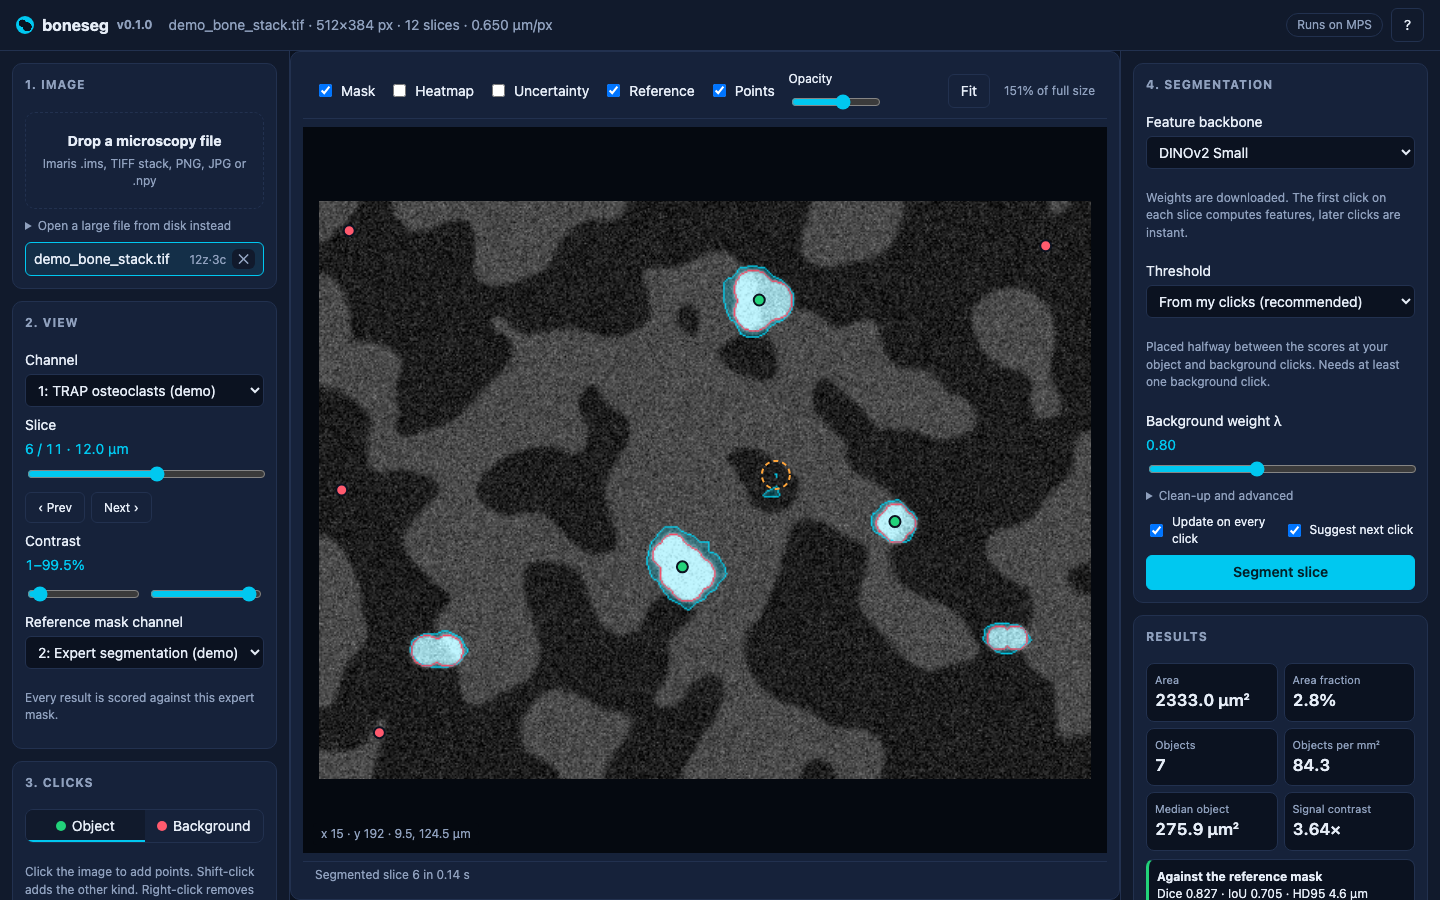
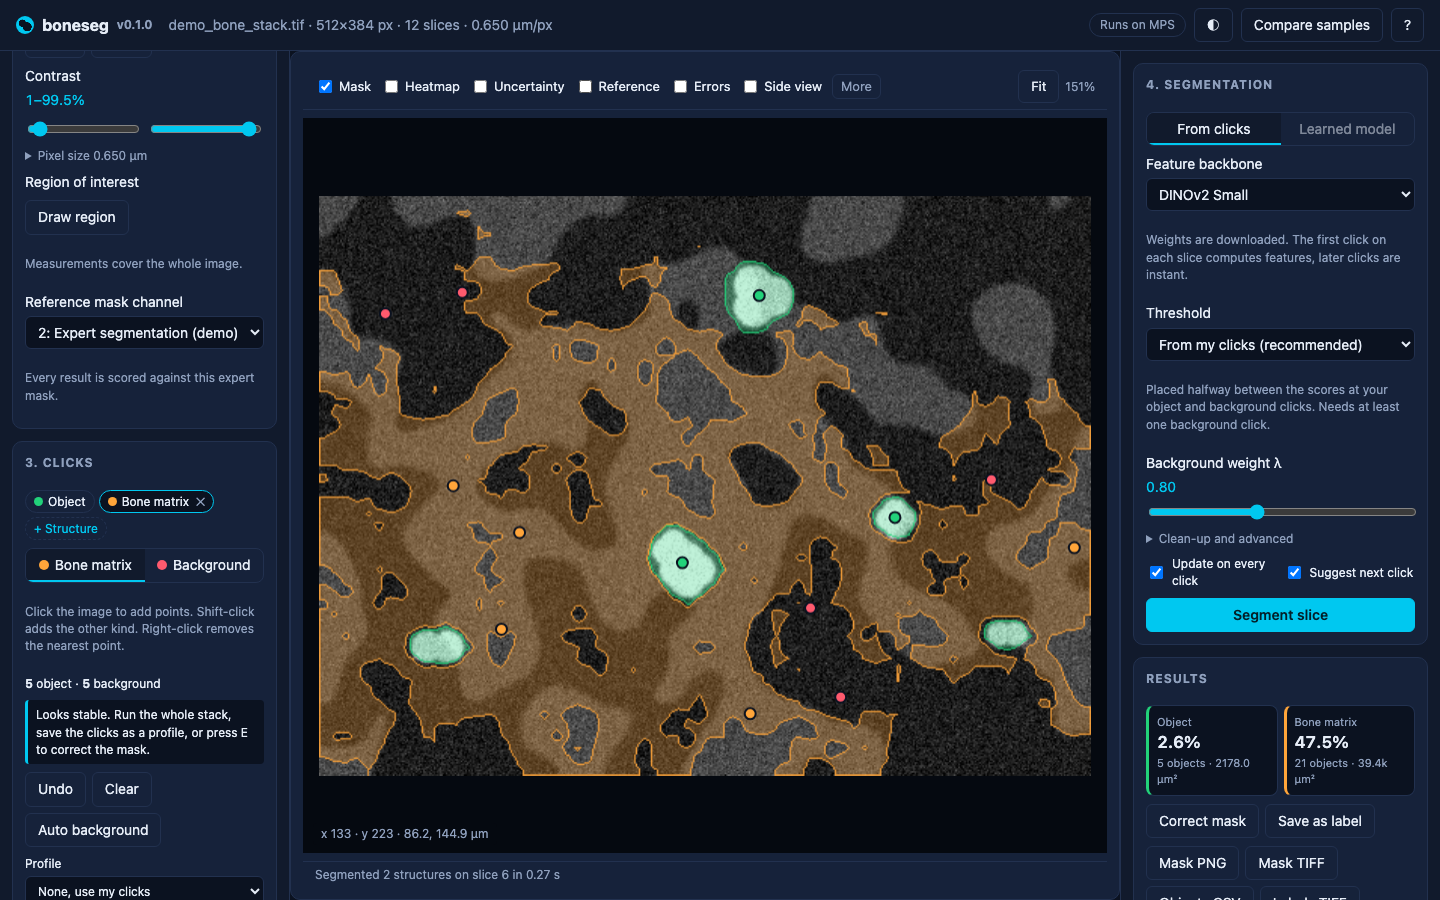
Reorganize the README around what a new user needs
A short feature overview, quick start, an eight-step walkthrough, batch
processing, the method with its benchmark tables, a 'tried and left out'
list of measured negative results, Python use, an up-to-date project
layout and development notes. The screenshot now shows two structures.

diff --git a/README.md b/README.md
@@ -1,8 +1,21 @@
 # boneseg
 
-Segment structures in bone microscopy images with a few clicks. boneseg turns the DINO few-shot segmentation from the notebook in `notebooks/` into a web app. You upload an Imaris, TIFF or PNG file, click a few cells and a few background spots, and get a mask with measurements in micrometres. You can then run the whole z-stack, export the results, or save the clicks as a profile for the next image.
+Segment structures in bone microscopy images with a few clicks. boneseg turns the DINO few-shot segmentation from the notebook in `notebooks/` into a web app. You open an Imaris, TIFF or PNG file, click a few cells and a few background spots, and get a mask with measurements in micrometres. From there you can run the whole z-stack, correct masks and train a small model on them, measure bone histomorphometry, and compare samples between groups.
 
-![The boneseg interface segmenting the demo stack](docs/screenshot.png)
+![boneseg segmenting osteoclast-like cells and bone matrix as two structures on the demo stack](docs/screenshot.png)
+
+## What it does
+
+- **Segment from clicks.** A frozen DINOv2 backbone turns the image into patch features. Your clicks become prototypes, and the threshold is calibrated from them. The mask updates after every click.
+- **Guide the next click.** An uncertainty overlay shows where the mask depends on single clicks, and a ring marks the most useful next click.
+- **Several structures at once.** Segment, for example, cells and bone matrix together, each with its own clicks and colour.
+- **Whole stacks.** Run every slice from one annotated slice, with measurements per slice, objects counted in 3D, and a side view through the stack.
+- **Learn from corrections.** Fix a mask with a brush, save it as a label, and train a small model in seconds. It reports its accuracy on slices it has not seen.
+- **Bone histomorphometry.** B.Ar/T.Ar, B.Pm, Oc.Pm/B.Pm and N.Oc/B.Pm per slice or across a stack, following the ASBMR nomenclature.
+- **Compare samples.** Run a profile on every sample, put samples in groups, and compare them with a dot plot and a rank test.
+- **Check against experts.** Pick an expert mask channel to score every result with Dice, IoU and HD95, and see where the mask is wrong.
+- **Reuse and share.** Profiles carry clicks, learned models or several structures to new images, to other users and to batch runs.
+- **Keep a record.** Export masks, label images and CSV tables, write an HTML report with a draft methods paragraph, or zip the whole project.
 
 ## Quick start
 
@@ -17,6 +30,8 @@ The app opens at http://127.0.0.1:8000. Click **Try a synthetic demo image** to 
 
 The app runs on an NVIDIA GPU, an Apple Silicon GPU or the CPU, whichever it finds. Small and Base are comfortable on a laptop. Giant needs a large GPU.
 
+To share the app on a lab network, start it with `--host 0.0.0.0`. Opening files by path on the server is then turned off unless you add `--allow-paths`, since it would let anyone read files the server can read.
+
 ### With Docker
 
 ```bash
@@ -28,20 +43,14 @@ The image runs on the CPU. For an NVIDIA GPU, change the PyTorch wheel index in 
 
 ## How to use it
 
-1. **Load an image.** Drop a file on the left panel. For multi-gigabyte Imaris files, use "Open a large file from disk instead" and paste the path, which opens the file in place without copying it.
-2. **Pick the channel** that shows the structure. Optionally draw a region of interest, for example trabecular bone without the cortex. Masks, measurements, scores and exports then stay inside it. If the file has an expert segmentation channel, choose it as the reference mask. Every result is then scored with Dice, IoU and HD95 against it. Channels named "segmentation", "mask" or "surface" are picked up automatically.
-3. **Click.** Click a few examples of the structure, then shift-click a few background spots. The mask updates after every click.
-   To segment several structures at once, for example cells and bone matrix, click "+ Structure" and give each structure its own clicks. Background clicks are shared, each pixel goes to the structure it resembles most, and "Labels TIFF" exports one value per structure. Whole-stack runs then cover every structure, with a label stack and 3D volumes and object counts per structure. When one structure is named like bone or matrix, the run also computes histomorphometry on every slice against the first other structure, and the stack-level Oc.Pm/B.Pm, N.Oc/B.Pm and B.Ar/T.Ar can be compared between groups in "Compare samples". "Save as profile" with several structures stores them all, so the same setup segments other images, stacks and batch runs without clicks.
-4. **Refine.** The orange overlay shows where the mask depends on single clicks, and a dashed ring suggests the most useful next click.
-5. **Correct and teach.** Press E to fix the mask with a brush, then save it as a label. After one or more labels, "Train model" fits a small classifier on the backbone features in a few seconds and reports its leave-one-slice-out Dice. Switch the method to "Learned model" to segment new slices without clicks. "Save model as profile" makes it reusable on other images and in batch runs.
-6. **Measure bone.** "Bone histomorphometry" combines a bone mask and an osteoclast mask on the slice. It reports B.Ar/T.Ar, B.Pm, Oc.Pm/B.Pm, N.Oc/B.Pm and each cell's distance to bone, following the ASBMR nomenclature for 2D sections. Either mask can come from the current result, a profile, the learned model, a saved label or the reference channel.
-7. **Export or scale up.**
-   - Download the mask as PNG or TIFF, or the per-object measurements as CSV. The CSV includes each object's mean and integrated raw intensity in every channel, for example SOST inside cells segmented on the TRAP channel.
-   - Run the whole stack, which writes a mask stack, a 3D label image with one ID per object, per-slice measurements and a 3D object table. Turn on "Side view" to see a cut through all slices with the stack mask on top, which shows at a glance whether the segmentation stays consistent with depth.
-   - Save the clicks as a profile to segment the next image of the same stain without clicking.
-   - Click "Compare samples" at the top, optionally run a saved profile on every sample from there, then put samples into groups and compare their latest stack runs, with a dot plot and a Mann-Whitney U or Kruskal-Wallis test. The app says when the groups are too small for the test to show anything.
-   - "Project zip" bundles everything done on the image except the image itself: settings, clicks, labels, learned models, profiles and stack results, with a README.
-   - Open the report, a self-contained HTML page with the image, measurements, settings, the latest stack run and a draft methods paragraph.
+1. **Open an image.** Drop a file on the left panel. Multi-gigabyte Imaris files open in place with "Open a large file from disk instead". Set the pixel size under "Pixel size" if the file has none.
+2. **Set up the view.** Pick the channel that shows the structure. Optionally draw a region of interest (R), for example trabecular bone without the cortex. If the file has an expert segmentation channel, pick it as the reference mask; channels named "segmentation", "mask" or "surface" are picked up automatically.
+3. **Click.** Click a few examples of the structure, then shift-click a few background spots. For several structures, click "+ Structure" and give each its own clicks; background clicks are shared.
+4. **Refine.** Follow the hint under the click counts. Orange areas depend on single clicks, and the dashed ring marks where one more click helps most. With a reference mask, "Errors" shows extra pixels in red and missed ones in yellow.
+5. **Correct and teach.** Press E to fix the mask with a brush and save it as a label. After one or more labels, "Train model" fits a small classifier in seconds and reports its Dice on held-out slices. Switch to "Learned model" to segment new slices without clicks.
+6. **Measure bone.** "Bone histomorphometry" combines a bone mask and a cell mask. Each mask can come from the current result, a structure, a profile, the learned model, a saved label or the reference channel. A multi-structure stack run with a structure named like bone or matrix also measures histomorphometry on every slice.
+7. **Scale up.** "Run stack" segments a range of slices. "Save as profile" keeps the clicks, a learned model or all structures for other images. "Compare samples" at the top runs a profile on every sample and compares groups.
+8. **Export.** Masks as PNG or TIFF, label images, per-object CSV with each object's intensity in every channel, stack outputs, an HTML report, or a project zip with everything except the image.
 
 ### Keyboard shortcuts
 
@@ -50,6 +59,7 @@ The image runs on the CPU. For an NVIDIA GPU, change the PyTorch wheel index in 
 | Click / Shift-click | Add an object / background point |
 | Right-click | Remove the nearest point |
 | 1, 2 | Switch between object and background clicks |
+| Tab, Shift+Tab | With several structures, switch which one object clicks go to |
 | Ctrl+Z | Undo the last point |
 | , and . | Previous and next slice |
 | F | Fit the image to the window |
@@ -58,35 +68,30 @@ The image runs on the CPU. For an NVIDIA GPU, change the PyTorch wheel index in 
 | [ and ], Ctrl+Z | While correcting: smaller or larger brush, undo the last stroke |
 | R, Enter | Draw a region of interest and finish it |
 | Alt-click | Move the side-view cut to this row |
-| Tab, Shift+Tab | With several structures, switch which one object clicks go to |
 | Scroll, drag | Zoom, pan |
 
 ## Batch processing
 
-Once a profile works on one image, apply it to many files from the command line:
+From the app, "Compare samples" can run a saved profile on every open sample. From the command line:
 
 ```bash
 python -m boneseg profiles                       # List saved profiles and their ids
 python -m boneseg batch data/*.ims --profile trap-cells-1a2b3c --channel 3 --z-step 5 --out results
 ```
 
-Each file gets its own folder with a mask stack, per-slice measurements and a 3D object table. A combined `summary.csv` covers all files, and a file that fails is reported without stopping the rest. Add `--reference 4` to score every slice against an expert mask channel. On Liu file A, a profile made from one slice segmented 15 slices in 11 seconds on a MacBook, with a mean Dice of 0.61 against the expert mask.
+Each file gets its own folder with a mask or label stack, per-slice measurements and a 3D object table. A combined `summary.csv` covers all files, and a file that fails is reported without stopping the rest. Add `--reference 4` to score every slice against an expert mask channel. On Liu file A, a profile made from one slice segmented 15 slices in 11 seconds on a MacBook, with a mean Dice of 0.61 against the expert mask.
 
 ## How it works
 
-The image goes through a frozen, self-supervised DINOv2 backbone, which gives one feature vector per 14×14 pixel patch. The patches under your clicks become prototypes. Every patch is then scored by its mean cosine similarity to the object prototypes, minus λ times its similarity to the background prototypes. The score map is upsampled and thresholded into a mask.
+The image goes through a frozen, self-supervised DINOv2 backbone, which gives one feature vector per 14×14 pixel patch. The patches under your clicks become prototypes. Every patch is scored by its mean cosine similarity to the object prototypes, minus λ times its similarity to the background prototypes. The score map is upsampled and thresholded into a mask.
 
-Three choices differ from the notebook. Each was tested on the demo stack with the benchmark script.
+Several choices differ from the notebook. Each was measured with the benchmark scripts on the demo stack and on Liu file A (channel 3, scored against its masked channel 4).
 
-- **The threshold comes from your clicks.** It sits halfway between the scores at the object clicks and those at the background clicks. On the demo stack this raised Dice from 0.36 with Otsu to 0.89. Otsu tended to separate tissue from empty space instead of the target from everything else.
-- **Scores are standardized per slice.** The median and spread of each slice's scores are used to standardize it. This never changes the slice you clicked. It keeps the calibrated threshold meaningful on deeper, dimmer slices, raising stack Dice from 0.69 to 0.81 on a strongly degraded stack.
+- **The threshold comes from your clicks.** It sits halfway between the scores at the object clicks and those at the background clicks. Otsu tended to separate tissue from empty space instead of the target from everything else.
+- **Scores are standardized per slice** by their median and spread. This never changes the slice you clicked, and it keeps the calibrated threshold meaningful on deeper, dimmer slices: stack Dice rose from 0.69 to 0.81 on a strongly degraded demo stack.
 - **The image keeps its aspect ratio** when resized for the backbone, and measurements use the voxel size from the file.
-
-The learned model is the app's take on the notebook's supervised U-Net step. It is a linear or small two-layer classifier over the frozen patch features, fitted to the share of each patch covered by your corrected masks, so it trains in seconds. Each patch also sees the mean features of the 5 × 5 patches around it. On Liu file A, a model trained on four labelled slices scored 0.69 Dice on eight unseen slices, against 0.63 for 25 + 25 clicks on every slice (`scripts/benchmark_head.py`). One labelled slice already scored 0.67. Without the neighbourhood features the same models scored 0.67 and 0.64. The same neighbourhood features did not suit the click-based method: they gained about 0.015 Dice on Liu file A but lost 0.07 on the demo stack, where the cells are small, so clicks keep using each patch on its own.
-
-Two more ideas were tested on Liu file A and left out. Feeding DINOv2 three different channels as a colour image instead of one grey channel scored the same or worse (0.65 against 0.65 and 0.63 Dice with 25 + 25 clicks). Tuning the input size and λ on one labelled slice picked settings that did worse on the other slices (0.61 against 0.64), so the defaults stay fixed. The masks on that file mostly spill over the expert boundary, but neither doubling the feature resolution with half-patch-shifted passes (0.61 against 0.65) nor a stricter threshold (better with 25 clicks, worse with 3) fixed it reliably.
-
-An adaptive mode that refreshed the prototypes slice by slice was tried and removed, because it lowered Dice in every setting tested.
+- **Several structures** are each scored against the background and the other structures' clicks, and a pixel goes to the structure it resembles most among those whose threshold it clears. On a synthetic two-structure image this matched segmenting each structure alone (Dice 0.73 and 0.72 against 0.74 and 0.72).
+- **The learned model** is the app's take on the notebook's supervised U-Net step: a linear or small two-layer classifier over the frozen patch features, fitted to the share of each patch covered by your corrected masks. Cross-validation picks the classifier and whether to add the mean features of the 5 × 5 neighbouring patches.
 
 | Mean Dice on the demo stack, DINOv2 Small | Clicked slice | Whole stack |
 |---|---|---|
@@ -94,22 +99,44 @@ An adaptive mode that refreshed the prototypes slice by slice was tried and remo
 | Fixed 6% of the image | 0.69 | 0.58 |
 | Threshold from clicks (default) | 0.88 | 0.89 |
 
-On real data the gap is smaller. Results for Liu file A, channel 3, scored against its masked channel 4 on 12 slices, using DINOv2 Small (`scripts/benchmark_file.py`):
-
-| Mean Dice on Liu file A | From clicks | Otsu | Fixed 10% |
+| Mean Dice on Liu file A, DINOv2 Small | From clicks | Otsu | Fixed 10% |
 |---|---|---|---|
 | Clicks on each slice, 3 object + 6 background | 0.58 | 0.51 | 0.56 |
 | Clicks on each slice, 25 + 25 | 0.63 | 0.54 | 0.62 |
 | Clicks on the middle slice, run over the stack, 25 + 25 | 0.57 | 0.50 | 0.56 |
 
-On that file a smaller backbone input of 644 px did slightly better than the default 980 px (0.66 against 0.65 with 25 + 25 clicks), and Base was close to Small. Try the "Detail" setting under "Clean-up and advanced" if the mask looks too fragmented.
+| Learned model on Liu file A, Dice on 8 unseen slices | Dice |
+|---|---|
+| Clicking 25 + 25 on every slice, for comparison | 0.63 |
+| Learned from 1 labelled slice | 0.67 |
+| Learned from 4 labelled slices | 0.69 |
+
+On real data most of the error is the mask spilling over the expert's boundary, which "Errors" makes visible. The learned model is the most effective way to reduce it.
+
+### Tried and left out
+
+Each of these was measured and did not hold up, so the defaults stay simpler:
+
+- An adaptive stack mode that refreshed the prototypes slice by slice lowered Dice in every setting, for example from 0.78 to 0.59.
+- Three channels as a colour image scored the same or worse than one grey channel (0.63 to 0.65, against 0.65 for grey).
+- Tuning the input size and λ on one labelled slice made other slices worse (0.61 against 0.64).
+- Half-patch-shifted passes to double the feature resolution scored 0.61 against 0.65. A stricter threshold helped with 25 clicks but hurt with 3.
+- Flip-averaged features and features from two layers did not help (0.64 against 0.65).
+- Neighbourhood features for click-based segmentation gained about 0.015 on Liu file A but lost 0.07 on the demo's small cells.
+
+On Liu file A a smaller backbone input of 644 px did slightly better than the default 980 px (0.66 against 0.65 with 25 + 25 clicks), and Base was close to Small. Try the "Detail" setting under "Clean-up and advanced" if a mask looks too fragmented.
 
 Run the benchmarks yourself:
 
 ```bash
 python scripts/benchmark_demo.py --ref top --depth-degradation 1.0
 python scripts/benchmark_file.py "data/liudata/10-26-40_6_Blaze_crop2 quantified.ims" --channel 3 --reference 4
+python scripts/benchmark_head.py "data/liudata/10-26-40_6_Blaze_crop2 quantified.ims" --channel 3 --reference 4
 ```
+
+## Using it from Python
+
+Every step is a plain function. `notebooks/boneseg_quickstart.ipynb` walks through loading a stack, segmenting from clicks, measuring, running the stack, histomorphometry and training the learned model. The web API is documented at http://127.0.0.1:8000/docs while the app runs.
 
 ## Project layout
 
@@ -117,20 +144,17 @@ python scripts/benchmark_file.py "data/liudata/10-26-40_6_Blaze_crop2 quantified
 |---|---|
 | `boneseg/io.py` | Lazy loading of Imaris, TIFF, PNG/JPG and NumPy files as (channel, z, y, x) volumes |
 | `boneseg/backbone.py` | DINOv2 backbones pinned to a fixed commit, plus a fast "classic" backbone for tests and offline use |
-| `boneseg/segment.py` | Prototypes, scores, thresholds, clean-up, uncertainty and profiles |
-| `boneseg/pipeline.py` | Whole-stack runs |
-| `boneseg/histo.py` | 2D bone histomorphometry |
-| `boneseg/head.py` | The small model trained on corrected masks |
-| `boneseg/quantify.py`, `metrics.py` | Measurements in micrometres, 3D objects, Dice, IoU and HD95 |
-| `boneseg/api.py`, `store.py` | The web server and its storage |
+| `boneseg/segment.py` | Prototypes, scores, thresholds, clean-up, uncertainty, several structures and profiles |
+| `boneseg/head.py` | The learned model trained on corrected masks |
+| `boneseg/pipeline.py`, `batch.py` | Whole-stack runs and command-line batch runs |
+| `boneseg/quantify.py`, `metrics.py`, `histo.py` | Measurements in micrometres, 3D objects, Dice, IoU, HD95 and histomorphometry |
+| `boneseg/study.py`, `report.py` | Group comparisons and HTML reports |
+| `boneseg/api/`, `store.py` | The web server, one module per area, and its storage |
 | `boneseg/static/` | The browser interface: plain HTML, CSS and JavaScript files in `js/`, loaded in order without a build step |
-| `notebooks/` | The research notebook, with a Kaggle batch-run setup in `kernel-metadata.json`, and `boneseg_quickstart.ipynb`, which uses the package from Python |
+| `notebooks/` | The research notebook, with a Kaggle batch-run setup in `kernel-metadata.json`, and the quickstart notebook |
 | `scripts/` | Benchmarks |
-| `tests/` | Tests on synthetic images, run with `pytest` |
-
-## API
-
-Everything the interface does goes through a JSON API, documented interactively at http://127.0.0.1:8000/docs while the app runs.
+| `tests/` | Unit, API, file-format and browser tests on synthetic images |
+| `ci/` | A GitHub Actions workflow, ready to enable (see `ci/README.md`) |
 
 ## Development
 
